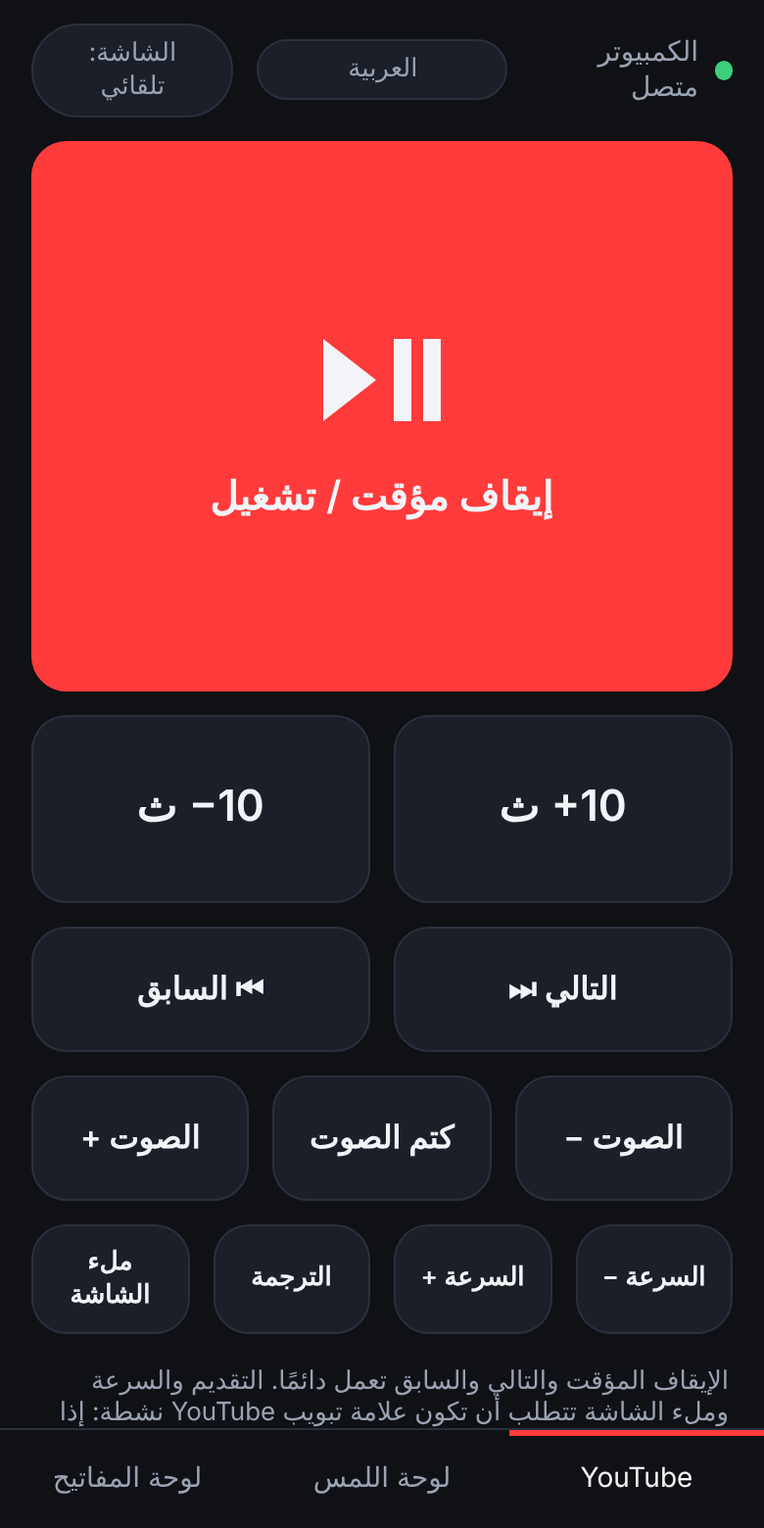
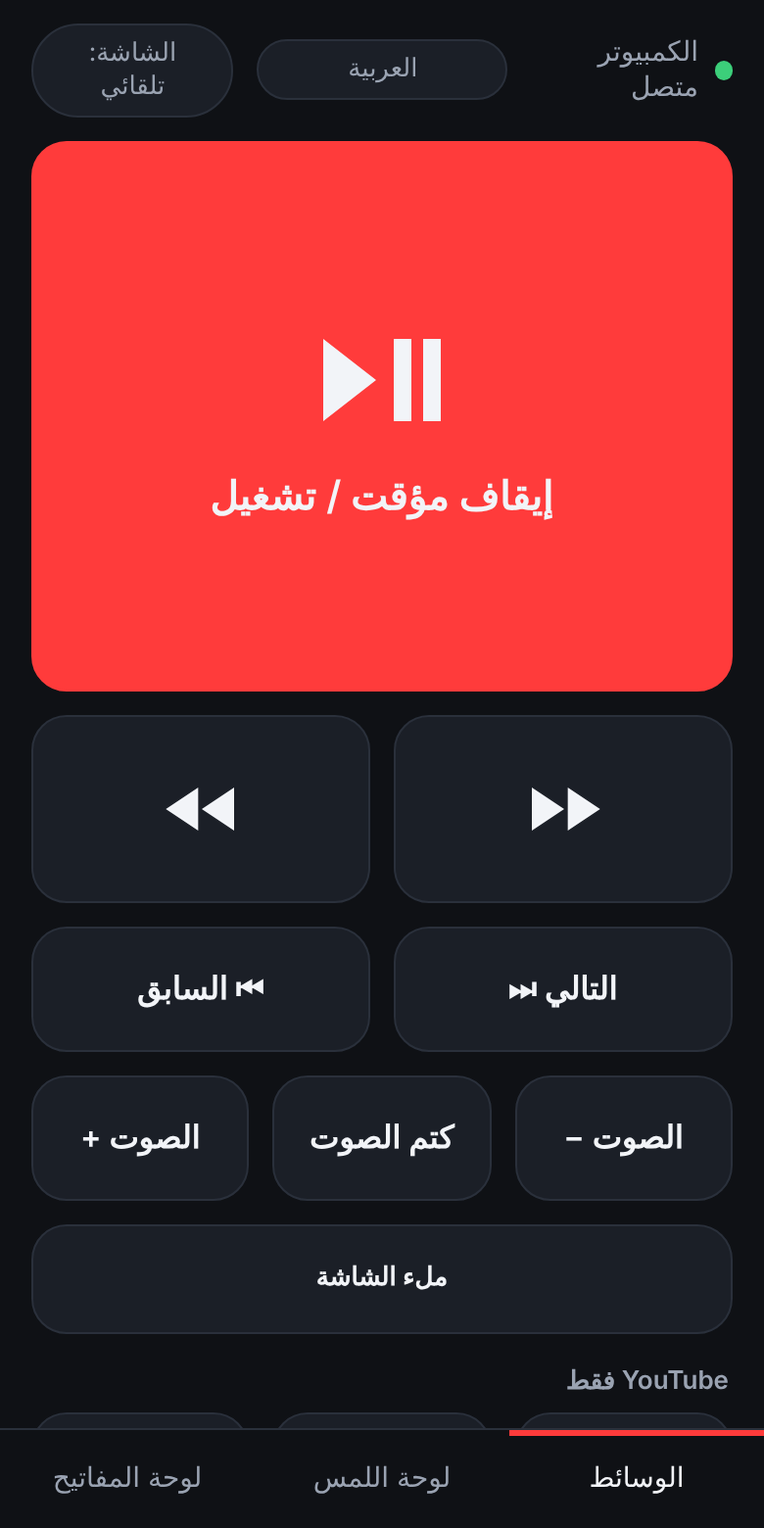
Turn the YouTube tab into a Media tab for any player
Play/pause, next, previous and volume were already media keys. Seek now
uses the arrow keys and full screen F, which most players share, instead
of YouTube-only J/L. Speed and captions stay, grouped under a YouTube only
label. Tab renamed in all 7 languages; READMEs and screenshots updated.

diff --git a/pc_remote/static/index.html b/pc_remote/static/index.html
@@ -21,21 +21,21 @@
   </header>
 
   <main>
-    <section id="tab-youtube" class="tab tab--active" aria-label="YouTube">
-      <button class="btn btn--hero" data-action="yt.play_pause" data-i18n-aria="yt.playPause" aria-label="Pause / Play">
+    <section id="tab-media" class="tab tab--active" data-i18n-aria="tab.media" aria-label="Media">
+      <button class="btn btn--hero" data-action="media.play_pause" data-i18n-aria="media.playPause" aria-label="Pause / Play">
         <svg viewBox="0 0 24 24" aria-hidden="true"><path d="M2 5v14l9-7zM14 5h3v14h-3zM19 5h3v14h-3z"/></svg>
-        <span data-i18n="yt.playPause">Pause / Play</span>
+        <span data-i18n="media.playPause">Pause / Play</span>
       </button>
 
       <!-- Media controls keep their left-to-right order in right-to-left languages too;
            dir="auto" still lets an Arabic label read right to left inside its button. -->
       <div class="row" dir="ltr">
-        <button class="btn btn--big" data-action="yt.seek_back_10" dir="auto" data-repeat data-i18n="yt.seekBack">−10 s</button>
-        <button class="btn btn--big" data-action="yt.seek_fwd_10" dir="auto" data-repeat data-i18n="yt.seekFwd">+10 s</button>
+        <button class="btn btn--big" data-action="media.seek_back" data-repeat data-i18n-aria="media.seekBack" aria-label="Rewind"><svg class="icon" viewBox="0 0 24 24" aria-hidden="true"><path d="M11 6v12L2 12zM21 6v12l-9-6z"/></svg></button>
+        <button class="btn btn--big" data-action="media.seek_fwd" data-repeat data-i18n-aria="media.seekFwd" aria-label="Fast forward"><svg class="icon" viewBox="0 0 24 24" aria-hidden="true"><path d="M3 6v12l9-6zM13 6v12l9-6z"/></svg></button>
       </div>
       <div class="row" dir="ltr">
-        <button class="btn" data-action="yt.previous" dir="auto" data-i18n="yt.previous">⏮ Previous</button>
-        <button class="btn" data-action="yt.next" dir="auto" data-i18n="yt.next">Next ⏭</button>
+        <button class="btn" data-action="media.previous" dir="auto" data-i18n="media.previous">⏮ Previous</button>
+        <button class="btn" data-action="media.next" dir="auto" data-i18n="media.next">Next ⏭</button>
       </div>
       <div class="row">
         <button class="btn" data-action="sys.volume_down" data-repeat data-i18n="sys.volDown">Vol −</button>
@@ -43,12 +43,15 @@
         <button class="btn" data-action="sys.volume_up" data-repeat data-i18n="sys.volUp">Vol +</button>
       </div>
       <div class="row">
+        <button class="btn btn--small" data-action="media.fullscreen" data-i18n="media.fullscreen">Full screen</button>
+      </div>
+      <h2 class="group-label" data-i18n="yt.only">YouTube only</h2>
+      <div class="row">
         <button class="btn btn--small" data-action="yt.speed_down" data-i18n="yt.speedDown">Speed −</button>
         <button class="btn btn--small" data-action="yt.speed_up" data-i18n="yt.speedUp">Speed +</button>
         <button class="btn btn--small" data-action="yt.captions" data-i18n="yt.captions">Captions</button>
-        <button class="btn btn--small" data-action="yt.fullscreen" data-i18n="yt.fullscreen">Full screen</button>
       </div>
-      <p class="hint" data-i18n="yt.hint">Pause, next and previous always work. Seeking, speed and full screen need the YouTube tab in focus: if they do nothing, click the video from the Touchpad tab.</p>
+      <p class="hint" data-i18n="media.hint">Play/pause, next, previous and volume work with any player, even in the background. Rewind, fast forward and full screen need the player window in focus: if they do nothing, click the video from the Touchpad tab.</p>
     </section>
 
     <section id="tab-touchpad" class="tab" data-i18n-aria="tab.touchpad" aria-label="Touchpad">
@@ -92,7 +95,7 @@ Tap to click, two fingers to scroll</span>
   </main>
 
   <nav class="tabbar">
-    <button class="tabbar__item tabbar__item--active" data-tab="youtube" data-i18n="tab.youtube">YouTube</button>
+    <button class="tabbar__item tabbar__item--active" data-tab="media" data-i18n="tab.media">Media</button>
     <button class="tabbar__item" data-tab="touchpad" data-i18n="tab.touchpad">Touchpad</button>
     <button class="tabbar__item" data-tab="keyboard" data-i18n="tab.keyboard">Keyboard</button>
   </nav>

diff --git a/pc_remote/static/style.css b/pc_remote/static/style.css
@@ -118,7 +118,10 @@ main {
 .btn--hero svg { width: 72px; height: 72px; fill: currentColor; }
 
 .btn--big { min-height: 96px; font-size: 22px; }
+.btn .icon { width: 44px; height: 44px; fill: currentColor; vertical-align: middle; }
 .btn--small { min-height: 56px; font-size: 13px; }
+
+.group-label { margin: 4px 2px -4px; font-size: 13px; font-weight: 600; color: var(--muted); }
 
 .hint { margin: 4px 2px 0; font-size: 13px; color: var(--muted); }
 

diff --git a/pc_remote/actions.py b/pc_remote/actions.py
@@ -13,21 +13,20 @@ SPECIAL_KEYS = frozenset({
     "media_volume_up", "media_volume_down", "media_volume_mute",
 })
 
-# Play/pause, next and previous use media keys: Chrome, Edge and Firefox route
-# them to the YouTube tab even when the browser window is not focused.
-# The rest are YouTube player hotkeys and need the YouTube tab in focus.
+# Play/pause, next and previous are media keys: Windows, macOS and Linux route
+# them to whatever is playing (browser tab, Spotify, VLC, ...) even when that
+# window is not focused. Seek and full screen use the keys most players share
+# (arrows, F) and need the player window in focus. Speed and captions are
+# YouTube hotkeys; the page labels them as such.
 ACTIONS = {
-    # YouTube
-    "yt.play_pause": ("media_play_pause",),
-    "yt.next": ("media_next",),
-    "yt.previous": ("media_previous",),
-    "yt.seek_back_10": ("j",),
-    "yt.seek_fwd_10": ("l",),
-    "yt.seek_back_5": ("left",),
-    "yt.seek_fwd_5": ("right",),
-    "yt.fullscreen": ("f",),
-    "yt.theater": ("t",),
-    "yt.mute": ("m",),
+    # Any player
+    "media.play_pause": ("media_play_pause",),
+    "media.next": ("media_next",),
+    "media.previous": ("media_previous",),
+    "media.seek_back": ("left",),
+    "media.seek_fwd": ("right",),
+    "media.fullscreen": ("f",),
+    # YouTube only
     "yt.captions": ("c",),
     "yt.speed_up": ("shift", "."),
     "yt.speed_down": ("shift", ","),

diff --git a/tests/test_app.py b/tests/test_app.py
@@ -30,7 +30,7 @@ def test_special_keys_resolve_in_pynput():
 
 
 @pytest.mark.parametrize("msg, call", [
-    ({"type": "action", "name": "yt.play_pause"}, ("combo", ("media_play_pause",))),
+    ({"type": "action", "name": "media.play_pause"}, ("combo", ("media_play_pause",))),
     ({"type": "action", "name": "yt.speed_up"}, ("combo", ("shift", "."))),
     ({"type": "key", "keys": ["ctrl", "w"]}, ("combo", ("ctrl", "w"))),
     ({"type": "text", "text": "привет"}, ("text", "привет")),
@@ -86,13 +86,13 @@ async def test_websocket_rejects_bad_token(client):
 async def test_websocket_drives_backend(client, backend):
     async with client.ws_connect(f"/ws?t={TOKEN}") as ws:
         assert (await ws.receive_json())["type"] == "hello"
-        await ws.send_json({"type": "action", "name": "yt.seek_fwd_10"})
+        await ws.send_json({"type": "action", "name": "media.seek_fwd"})
         await ws.send_json({"type": "action", "name": "bogus"})
         error = await ws.receive_json()
         assert error["type"] == "error"
         await ws.send_str("not json")
         assert (await ws.receive_json())["type"] == "error"
-    assert backend.calls == [("combo", ("l",))]
+    assert backend.calls == [("combo", ("right",))]
 
 
 def test_candidate_ips_prefer_home_network_over_vpn():

diff --git a/docs/README.ru.md b/docs/README.ru.md
@@ -20,7 +20,7 @@
 ## Скриншоты
 
 <table>
-<tr><td align="center"><img src="screenshots/phone-youtube.png" width="180" alt="YouTube"><br><sub>YouTube</sub></td><td align="center"><img src="screenshots/phone-touchpad.png" width="180" alt="Тачпад"><br><sub>Тачпад</sub></td><td align="center"><img src="screenshots/phone-keyboard.png" width="180" alt="Клавиатура"><br><sub>Клавиатура</sub></td></tr>
+<tr><td align="center"><img src="screenshots/phone-media.png" width="180" alt="Медиа"><br><sub>Медиа</sub></td><td align="center"><img src="screenshots/phone-touchpad.png" width="180" alt="Тачпад"><br><sub>Тачпад</sub></td><td align="center"><img src="screenshots/phone-keyboard.png" width="180" alt="Клавиатура"><br><sub>Клавиатура</sub></td></tr>
 <tr><td align="center"><img src="screenshots/phone-arabic.png" width="180" alt="Арабский, справа налево"><br><sub>Арабский, справа налево</sub></td><td align="center"><img src="screenshots/phone-japanese.png" width="180" alt="Японский"><br><sub>Японский</sub></td><td></td></tr>
 </table>
 
@@ -35,7 +35,7 @@
 
 ## Что умеет
 
-**YouTube**: большая кнопка пауза/воспроизведение, перемотка ±10 секунд (удерживайте для быстрой перемотки), следующее и предыдущее видео, громкость системы, скорость, субтитры, полный экран.
+**Медиа**: работает с любым плеером (YouTube, Netflix, Spotify, VLC и другими): большая кнопка пауза/воспроизведение, перемотка назад и вперёд (удерживайте для быстрой перемотки), следующее и предыдущее, громкость системы, полный экран. Для YouTube есть ещё скорость и субтитры.
 
 **Тачпад**: курсор пальцем, касание это клик, касание двумя пальцами это правый клик, прокрутка двумя пальцами, кнопки «Назад», «Вперёд», «Обновить» для браузера.
 
@@ -65,10 +65,10 @@
 
 Программа на ПК пишет сообщения на языке системы, другой язык: `--lang en|ar|zh|ja|ru|de|gsw`.
 
-## Как управлять YouTube
+## Как работает управление медиа
 
-- **Пауза, следующее, предыдущее, громкость** работают через мультимедийные клавиши, поэтому срабатывают, даже если окно браузера не активно.
-- **Перемотка, скорость, субтитры, полный экран** это горячие клавиши YouTube, им нужна активная вкладка с видео. Если не срабатывают, откройте «Тачпад» и кликните по видео.
+- **Пауза, следующее, предыдущее, громкость** работают через мультимедийные клавиши, поэтому доходят до того, что сейчас играет, даже если его окно не активно.
+- **Перемотка и полный экран** нажимают стрелки и F, которые понимает большинство плееров, поэтому окно плеера должно быть активным. Если не срабатывают, откройте «Тачпад» и кликните по видео. **Скорость и субтитры** это горячие клавиши YouTube.
 
 ## Экран телефона
 

diff --git a/docs/README.ar.md b/docs/README.ar.md
@@ -22,7 +22,7 @@
 ## لقطات الشاشة
 
 <table>
-<tr><td align="center"><img src="screenshots/phone-youtube.png" width="180" alt="YouTube"><br><sub>YouTube</sub></td><td align="center"><img src="screenshots/phone-touchpad.png" width="180" alt="لوحة اللمس"><br><sub>لوحة اللمس</sub></td><td align="center"><img src="screenshots/phone-keyboard.png" width="180" alt="لوحة المفاتيح"><br><sub>لوحة المفاتيح</sub></td></tr>
+<tr><td align="center"><img src="screenshots/phone-media.png" width="180" alt="الوسائط"><br><sub>الوسائط</sub></td><td align="center"><img src="screenshots/phone-touchpad.png" width="180" alt="لوحة اللمس"><br><sub>لوحة اللمس</sub></td><td align="center"><img src="screenshots/phone-keyboard.png" width="180" alt="لوحة المفاتيح"><br><sub>لوحة المفاتيح</sub></td></tr>
 <tr><td align="center"><img src="screenshots/phone-arabic.png" width="180" alt="العربية، من اليمين إلى اليسار"><br><sub>العربية، من اليمين إلى اليسار</sub></td><td align="center"><img src="screenshots/phone-japanese.png" width="180" alt="اليابانية"><br><sub>اليابانية</sub></td><td></td></tr>
 </table>
 
@@ -37,7 +37,7 @@
 
 ## الميزات
 
-**YouTube**: زر كبير للإيقاف المؤقت والتشغيل، تقديم وترجيع 10 ثوانٍ (اضغط مطولًا للاستمرار)، الفيديو التالي والسابق، مستوى صوت النظام، سرعة التشغيل، الترجمة، ملء الشاشة.
+**الوسائط**: تعمل مع أي مشغّل (YouTube وNetflix وSpotify وVLC وغيرها): زر كبير للإيقاف المؤقت والتشغيل، ترجيع وتقديم (اضغط مطولًا للاستمرار)، التالي والسابق، مستوى صوت النظام، ملء الشاشة. وفي YouTube أيضًا سرعة التشغيل والترجمة.
 
 **لوحة اللمس**: تحريك المؤشر بالإصبع، النقر بلمسة، النقر الأيمن بلمسة بإصبعين، التمرير بإصبعين، وأزرار الرجوع والتقدم والتحديث للمتصفح.
 
@@ -67,10 +67,10 @@
 
 يعرض برنامج الكمبيوتر رسائله بلغة النظام؛ ولاختيار لغة أخرى استخدم `--lang en|ar|zh|ja|ru|de|gsw`.
 
-## كيف يعمل التحكم في YouTube
+## كيف يعمل التحكم في الوسائط
 
-- **الإيقاف المؤقت والتالي والسابق ومستوى الصوت** تعمل عبر مفاتيح الوسائط، لذلك تعمل حتى لو لم تكن نافذة المتصفح نشطة.
-- **التقديم والسرعة والترجمة وملء الشاشة** اختصارات لوحة مفاتيح في YouTube، وتحتاج إلى أن تكون علامة تبويب الفيديو نشطة. إذا لم تعمل، افتح «لوحة اللمس» وانقر على الفيديو.
+- **الإيقاف المؤقت والتالي والسابق ومستوى الصوت** تعمل عبر مفاتيح الوسائط، لذلك تصل إلى ما يُشغَّل حتى لو لم تكن نافذته نشطة.
+- **الترجيع والتقديم وملء الشاشة** تضغط مفاتيح الأسهم وF التي تفهمها معظم المشغّلات، لذلك يجب أن تكون نافذة المشغّل نشطة. إذا لم تعمل، افتح «لوحة اللمس» وانقر على الفيديو. **السرعة والترجمة** اختصارات في YouTube.
 
 ## شاشة الهاتف
 

diff --git a/docs/README.ja.md b/docs/README.ja.md
@@ -20,7 +20,7 @@
 ## スクリーンショット
 
 <table>
-<tr><td align="center"><img src="screenshots/phone-youtube.png" width="180" alt="YouTube"><br><sub>YouTube</sub></td><td align="center"><img src="screenshots/phone-touchpad.png" width="180" alt="タッチパッド"><br><sub>タッチパッド</sub></td><td align="center"><img src="screenshots/phone-keyboard.png" width="180" alt="キーボード"><br><sub>キーボード</sub></td></tr>
+<tr><td align="center"><img src="screenshots/phone-media.png" width="180" alt="メディア"><br><sub>メディア</sub></td><td align="center"><img src="screenshots/phone-touchpad.png" width="180" alt="タッチパッド"><br><sub>タッチパッド</sub></td><td align="center"><img src="screenshots/phone-keyboard.png" width="180" alt="キーボード"><br><sub>キーボード</sub></td></tr>
 <tr><td align="center"><img src="screenshots/phone-arabic.png" width="180" alt="アラビア語（右から左）"><br><sub>アラビア語（右から左）</sub></td><td align="center"><img src="screenshots/phone-japanese.png" width="180" alt="日本語"><br><sub>日本語</sub></td><td></td></tr>
 </table>
 
@@ -35,7 +35,7 @@
 
 ## できること
 
-**YouTube**：大きな一時停止/再生ボタン、10 秒スキップ（長押しで連続）、前の動画・次の動画、システム音量、再生速度、字幕、全画面。
+**メディア**：どのプレーヤーでも使えます（YouTube、Netflix、Spotify、VLC など）。大きな一時停止/再生ボタン、巻き戻し・早送り（長押しで連続）、前へ・次へ、システム音量、全画面。YouTube では再生速度と字幕も操作できます。
 
 **タッチパッド**：指でカーソル移動、タップでクリック、2 本指タップで右クリック、2 本指スクロール、ブラウザの「戻る」「進む」「更新」ボタン。
 
@@ -65,10 +65,10 @@
 
 PC 用プログラムはシステムの言語でメッセージを表示します。別の言語にするには `--lang en|ar|zh|ja|ru|de|gsw` を指定します。
 
-## YouTube 操作のしくみ
+## メディア操作のしくみ
 
-- **一時停止・次へ・前へ・音量**はメディアキーを使うので、ブラウザのウィンドウがアクティブでなくても動きます。
-- **シーク・速度・字幕・全画面**は YouTube のショートカットキーなので、動画のタブがアクティブである必要があります。反応しない場合は「タッチパッド」を開いて動画をクリックしてください。
+- **一時停止/再生・次へ・前へ・音量**はメディアキーを使うので、再生中のアプリのウィンドウがアクティブでなくても届きます。
+- **巻き戻し・早送り・全画面**はほとんどのプレーヤーが対応している矢印キーと F キーを押すため、プレーヤーのウィンドウがアクティブである必要があります。反応しない場合は「タッチパッド」を開いて動画をクリックしてください。**速度と字幕**は YouTube のショートカットキーです。
 
 ## スマートフォンの画面
 

diff --git a/docs/README.de.md b/docs/README.de.md
@@ -20,7 +20,7 @@ Das Handy wird zur Fernbedienung für den PC, über das WLAN zu Hause. Gedacht z
 ## Screenshots
 
 <table>
-<tr><td align="center"><img src="screenshots/phone-youtube.png" width="180" alt="YouTube"><br><sub>YouTube</sub></td><td align="center"><img src="screenshots/phone-touchpad.png" width="180" alt="Touchpad"><br><sub>Touchpad</sub></td><td align="center"><img src="screenshots/phone-keyboard.png" width="180" alt="Tastatur"><br><sub>Tastatur</sub></td></tr>
+<tr><td align="center"><img src="screenshots/phone-media.png" width="180" alt="Medien"><br><sub>Medien</sub></td><td align="center"><img src="screenshots/phone-touchpad.png" width="180" alt="Touchpad"><br><sub>Touchpad</sub></td><td align="center"><img src="screenshots/phone-keyboard.png" width="180" alt="Tastatur"><br><sub>Tastatur</sub></td></tr>
 <tr><td align="center"><img src="screenshots/phone-arabic.png" width="180" alt="Arabisch, von rechts nach links"><br><sub>Arabisch, von rechts nach links</sub></td><td align="center"><img src="screenshots/phone-japanese.png" width="180" alt="Japanisch"><br><sub>Japanisch</sub></td><td></td></tr>
 </table>
 
@@ -35,7 +35,7 @@ Die Handy-App spricht Englisch, Arabisch (von rechts nach links), Chinesisch, Ja
 
 ## Funktionen
 
-**YouTube**: große Pause/Play-Taste, ±10 Sekunden spulen (gedrückt halten zum Weiterspulen), nächstes und vorheriges Video, Systemlautstärke, Wiedergabetempo, Untertitel, Vollbild.
+**Medien**: funktioniert mit jedem Player (YouTube, Netflix, Spotify, VLC und andere): große Pause/Play-Taste, zurück- und vorspulen (gedrückt halten zum Weiterspulen), nächster und vorheriger Titel, Systemlautstärke, Vollbild. Für YouTube zusätzlich Wiedergabetempo und Untertitel.
 
 **Touchpad**: Zeiger mit dem Finger bewegen, Tippen ist ein Klick, Tippen mit zwei Fingern ein Rechtsklick, Scrollen mit zwei Fingern, dazu Zurück, Vor und Neu laden für den Browser.
 
@@ -65,10 +65,10 @@ Der Kopplungsschlüssel wird gespeichert, nach einem Neustart des PCs muss nicht
 
 Das PC-Programm schreibt seine Meldungen in der Systemsprache; eine andere wählt `--lang en|ar|zh|ja|ru|de|gsw`.
 
-## So funktioniert die YouTube-Steuerung
+## So funktioniert die Mediensteuerung
 
-- **Pause, Nächstes, Vorheriges und Lautstärke** laufen über Medientasten und funktionieren auch, wenn das Browserfenster nicht aktiv ist.
-- **Spulen, Tempo, Untertitel und Vollbild** sind YouTube-Tastenkürzel und brauchen den aktiven Video-Tab. Wenn nichts passiert, im Tab «Touchpad» auf das Video klicken.
+- **Pause/Play, Nächstes, Vorheriges und Lautstärke** laufen über Medientasten und erreichen deshalb das, was gerade spielt, auch wenn sein Fenster nicht aktiv ist.
+- **Spulen und Vollbild** drücken die Pfeiltasten und F, die die meisten Player verstehen, deshalb muss das Player-Fenster aktiv sein. Wenn nichts passiert, im Tab «Touchpad» auf das Video klicken. **Tempo und Untertitel** sind YouTube-Tastenkürzel.
 
 ## Handybildschirm
 

diff --git a/README.md b/README.md
@@ -20,7 +20,7 @@ Turn your phone into a remote control for your PC over home Wi-Fi. Built for wat
 ## Screenshots
 
 <table>
-<tr><td align="center"><img src="docs/screenshots/phone-youtube.png" width="180" alt="YouTube"><br><sub>YouTube</sub></td><td align="center"><img src="docs/screenshots/phone-touchpad.png" width="180" alt="Touchpad"><br><sub>Touchpad</sub></td><td align="center"><img src="docs/screenshots/phone-keyboard.png" width="180" alt="Keyboard"><br><sub>Keyboard</sub></td></tr>
+<tr><td align="center"><img src="docs/screenshots/phone-media.png" width="180" alt="Media"><br><sub>Media</sub></td><td align="center"><img src="docs/screenshots/phone-touchpad.png" width="180" alt="Touchpad"><br><sub>Touchpad</sub></td><td align="center"><img src="docs/screenshots/phone-keyboard.png" width="180" alt="Keyboard"><br><sub>Keyboard</sub></td></tr>
 <tr><td align="center"><img src="docs/screenshots/phone-arabic.png" width="180" alt="Arabic, right to left"><br><sub>Arabic, right to left</sub></td><td align="center"><img src="docs/screenshots/phone-japanese.png" width="180" alt="Japanese"><br><sub>Japanese</sub></td><td></td></tr>
 </table>
 
@@ -35,7 +35,7 @@ The phone app speaks English, Arabic (right to left), Chinese, Japanese, Russian
 
 ## Features
 
-**YouTube**: a big play/pause button, seek ±10 seconds (hold to keep seeking), next and previous video, system volume, playback speed, captions, full screen.
+**Media**: works with any player (YouTube, Netflix, Spotify, VLC and others): a big play/pause button, rewind and fast forward (hold to keep seeking), next and previous, system volume, full screen. For YouTube there are also playback speed and captions.
 
 **Touchpad**: move the cursor with a finger, tap to click, two-finger tap to right-click, two-finger scroll, and Back, Forward and Refresh buttons for the browser.
 
@@ -65,10 +65,10 @@ The pairing key is saved, so you don't need to scan again after restarting the P
 
 The PC program prints its messages in the system language; choose another one with `--lang en|ar|zh|ja|ru|de|gsw`.
 
-## How YouTube control works
+## How media control works
 
-- **Play/pause, next, previous and volume** use media keys, so they work even when the browser window isn't focused.
-- **Seeking, speed, captions and full screen** are YouTube hotkeys and need the video tab focused. If they do nothing, open the Touchpad tab and click the video.
+- **Play/pause, next, previous and volume** use media keys, so they reach whatever is playing even when its window isn't focused.
+- **Rewind, fast forward and full screen** press the arrow keys and F, which most players understand, so the player window has to be focused. If they do nothing, open the Touchpad tab and click the video. **Speed and captions** are YouTube hotkeys.
 
 ## Phone screen
 

diff --git a/docs/README.zh.md b/docs/README.zh.md
@@ -20,7 +20,7 @@
 ## 截图
 
 <table>
-<tr><td align="center"><img src="screenshots/phone-youtube.png" width="180" alt="YouTube"><br><sub>YouTube</sub></td><td align="center"><img src="screenshots/phone-touchpad.png" width="180" alt="触控板"><br><sub>触控板</sub></td><td align="center"><img src="screenshots/phone-keyboard.png" width="180" alt="键盘"><br><sub>键盘</sub></td></tr>
+<tr><td align="center"><img src="screenshots/phone-media.png" width="180" alt="媒体"><br><sub>媒体</sub></td><td align="center"><img src="screenshots/phone-touchpad.png" width="180" alt="触控板"><br><sub>触控板</sub></td><td align="center"><img src="screenshots/phone-keyboard.png" width="180" alt="键盘"><br><sub>键盘</sub></td></tr>
 <tr><td align="center"><img src="screenshots/phone-arabic.png" width="180" alt="阿拉伯语，从右到左"><br><sub>阿拉伯语，从右到左</sub></td><td align="center"><img src="screenshots/phone-japanese.png" width="180" alt="日语"><br><sub>日语</sub></td><td></td></tr>
 </table>
 
@@ -35,7 +35,7 @@
 
 ## 功能
 
-**YouTube**：大号暂停/播放按钮，快退/快进 10 秒（按住可连续快进），上一个和下一个视频，系统音量，播放速度，字幕，全屏。
+**媒体**：适用于任何播放器（YouTube、Netflix、Spotify、VLC 等）：大号暂停/播放按钮，快退和快进（按住可连续），上一个和下一个，系统音量，全屏。YouTube 还可调节播放速度和字幕。
 
 **触控板**：手指移动光标，轻点单击，双指轻点右键，双指滚动，以及浏览器的后退、前进、刷新按钮。
 
@@ -65,10 +65,10 @@
 
 电脑端程序使用系统语言显示消息；可用 `--lang en|ar|zh|ja|ru|de|gsw` 指定其他语言。
 
-## YouTube 控制原理
+## 媒体控制原理
 
-- **暂停、上一个、下一个和音量**使用多媒体键，即使浏览器窗口不在前台也能生效。
-- **快进快退、速度、字幕和全屏**是 YouTube 快捷键，需要视频标签页处于焦点。如果没有反应，请打开"触控板"并点击一下视频。
+- **暂停/播放、上一个、下一个和音量**使用媒体键，所以即使正在播放的窗口不在焦点，也能控制它。
+- **快退、快进和全屏**发送大多数播放器都支持的方向键和 F 键，因此播放器窗口需要处于焦点。如果没有反应，请打开"触控板"并点击一下视频。**速度和字幕**是 YouTube 快捷键。
 
 ## 手机屏幕
 
